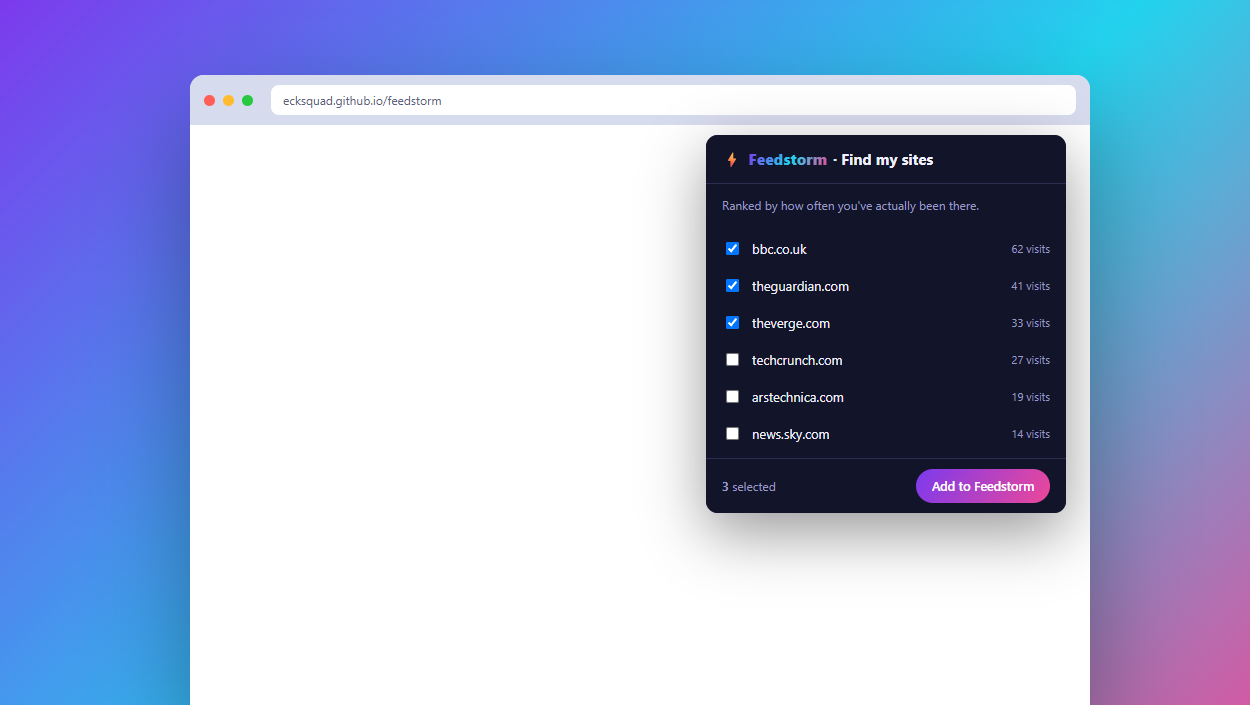
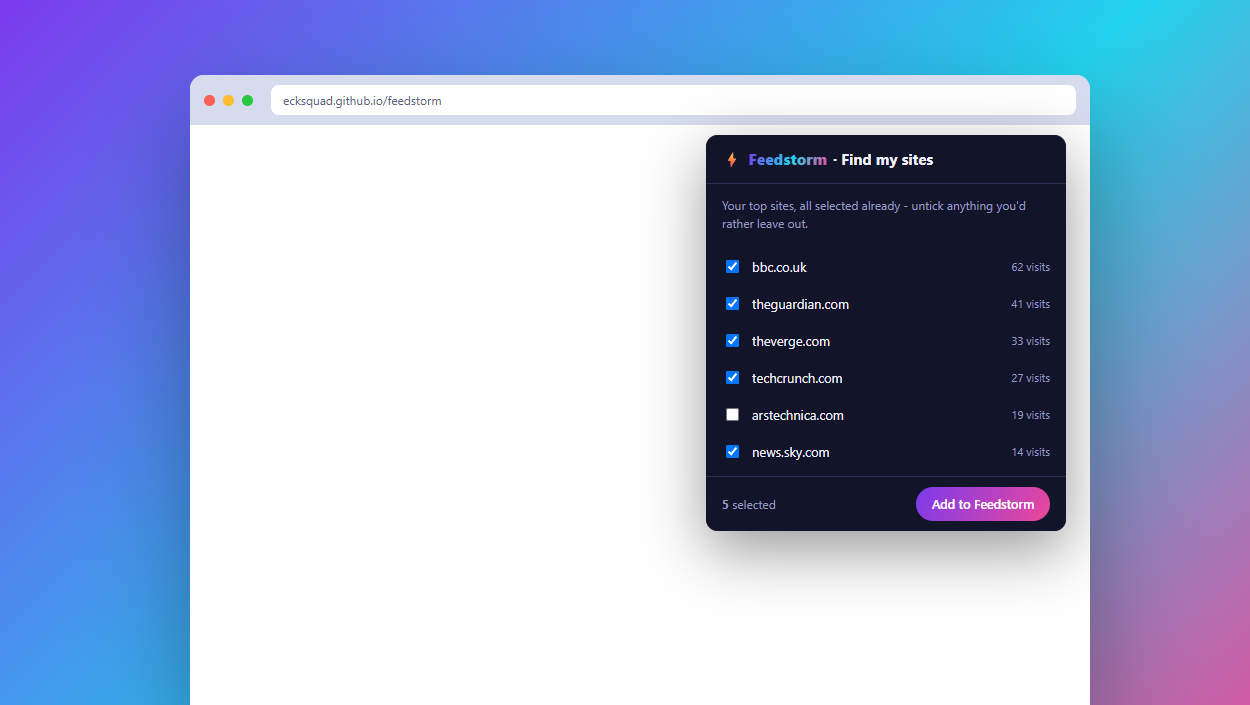
Pre-select top sites by default instead of requiring per-site ticking
Was opt-in (tick each site you want), which meant clicking through every
single one for the common case where someone wants most of their top
sites. Now opt-out: everything the scan finds is pre-checked, so the
default action is just "Add to Feedstorm" - unticking a specific site
(e.g. something sensitive you'd rather leave out) is still fully
supported and still means it's never added, just no longer the default
interaction for every single site.

Updated store listing copy and screenshots to match.

Changed region(s): [[0.5616, 0.2809, 0.8112, 0.6553], [0.5616, 0.3433, 0.8736, 0.7801]]

diff --git a/history-finder/screenshots/capture_page.html b/history-finder/screenshots/capture_page.html
@@ -93,10 +93,10 @@
           </div>
         </section>
         <section class="view" id="view-list">
-          <p class="note" style="padding:12px 16px 10px">Ranked by how often you've actually been there.</p>
+          <p class="note" style="padding:12px 16px 10px">Your top sites, all selected already - untick anything you'd rather leave out.</p>
           <div id="list"></div>
           <footer>
-            <span class="sel"><b id="selCount">3</b> selected</span>
+            <span class="sel"><b id="selCount">5</b> selected</span>
             <button id="addBtn">Add to Feedstorm</button>
           </footer>
         </section>
@@ -108,7 +108,7 @@
   // Static, hand-set content for the screenshot - not popup.js's live logic.
   const rows = [
     ['bbc.co.uk', 62, true], ['theguardian.com', 41, true], ['theverge.com', 33, true],
-    ['techcrunch.com', 27, false], ['arstechnica.com', 19, false], ['news.sky.com', 14, false]
+    ['techcrunch.com', 27, true], ['arstechnica.com', 19, false], ['news.sky.com', 14, true]
   ];
   document.getElementById('list').innerHTML = rows.map(([host,count,checked]) => `
     <label class="row">

diff --git a/history-finder/popup.js b/history-finder/popup.js
@@ -57,9 +57,14 @@ function render(ranked){
     list.innerHTML = '<div class="empty">No browsing history found on this profile.</div>';
     return;
   }
+  // Pre-checked by default: most people want most of their top sites, so this
+  // is "untick the rare one you don't want" instead of "tick every one you
+  // do" - fewer clicks for the common case. Still a real choice, not
+  // auto-added: nothing happens until "Add to Feedstorm" is clicked, and
+  // unticking here still means a site is never added at all.
   list.innerHTML = ranked.map(([host, count]) => `
     <label class="row">
-      <input type="checkbox" data-host="${host}">
+      <input type="checkbox" data-host="${host}" checked>
       <span class="host">${host}</span>
       <span class="count">${count} visits</span>
     </label>
@@ -68,6 +73,7 @@ function render(ranked){
   list.querySelectorAll('input[type="checkbox"]').forEach(cb => {
     cb.addEventListener('change', updateFooter);
   });
+  updateFooter();
 }
 
 function updateFooter(){

diff --git a/history-finder/popup.html b/history-finder/popup.html
@@ -83,8 +83,9 @@
   </section>
 
   <section class="view" id="view-list">
-    <p class="note" style="padding:0 16px 10px">Ranked by how often you've actually been there - tick what
-      you want, anything left unticked disappears when you close this popup.</p>
+    <p class="note" style="padding:0 16px 10px">Your top sites, ranked by how often you've actually been
+      there - all selected already. Untick anything you'd rather leave out; nothing is added until you
+      click "Add to Feedstorm," and anything unticked disappears the moment you close this popup.</p>
     <div id="list"><div class="empty">Scanning your history…</div></div>
     <footer>
       <span class="sel"><b id="selCount">0</b> selected</span>

diff --git a/history-finder/STORE_LISTING.md b/history-finder/STORE_LISTING.md
@@ -22,19 +22,20 @@ top sites, not a guess.
 How it works: click the toolbar icon and you'll see a consent screen
 first, not a scan. Only clicking "Show my top sites" reads your history;
 closing the popup or clicking "Not now" means it's never read at all.
-After that, it ranks your history by site and shows you a checklist.
-Tick what you want, click "Add to Feedstorm," and it opens with those
-sites added.
+After that, it ranks your history by site and shows you a checklist with
+your top sites already selected - untick anything you'd rather leave out,
+then click "Add to Feedstorm" and it opens with those sites added.
 
 Nothing is ever recorded. This extension has no server and makes no
 network requests of any kind - it can't send your history anywhere even
 if it wanted to. It doesn't request the storage permission either, so it
 can't save anything to disk. The ranked list only exists in the popup's
 own memory, which is destroyed the moment the popup closes - anything you
-don't tick disappears with it, guaranteed by how a browser extension
+untick (or the whole list, if you close without clicking "Add to
+Feedstorm") disappears with it, guaranteed by how a browser extension
 popup works, not by a policy we're promising to follow.
 
-Full privacy policy: [privacy.html URL once hosted]
+Full privacy policy: https://ecksquad.github.io/feedstorm/history-finder/privacy.html
 Source code (fully open): github.com/ecksquad/feedstorm/tree/main/history-finder
 
 ## Single purpose description (Chrome requires this in its own field)
